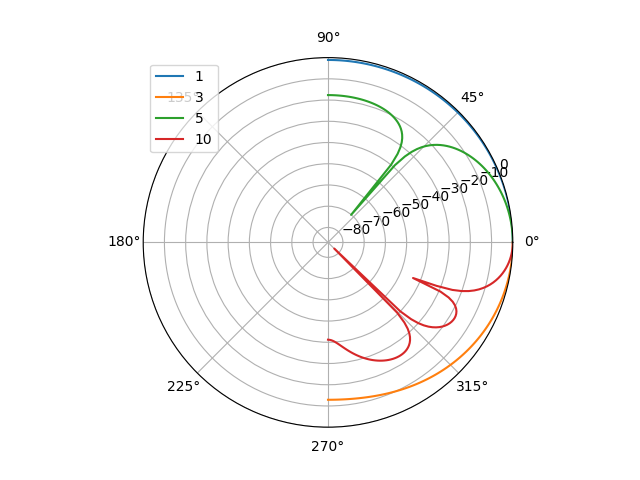
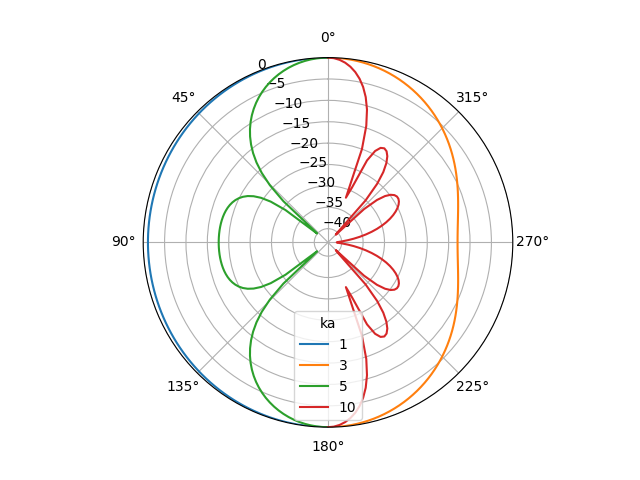
[skip travis] clean up docs even more

diff --git a/examples/pistoon_inf_baffle.py b/examples/pistoon_inf_baffle.py
@@ -9,7 +9,8 @@ Piston in an infinite baffle example
 #%% The piston in an infinite baffle is a classic model used to describe
 # the beamshapes of mouth-emitting bat species [1,2] (among other animals eg. [3]). 
 # It's easily to compute, but however can only describe the beamshape upto :math:`\pm90^{\circ}`
-# off-axis. Let's see an example of what the piston model outputs:
+# off-axis. One major issue with piston in an infinite baffle is that it is front-back symmetric,
+# which is unrealistic for most animal vocalisations. Let's see an example of what the piston model outputs:
 
 
 from beamshapes import piston_in_infinite_baffle_directivity
@@ -22,7 +23,7 @@ import numpy as np
 
 dB = lambda X: 20*np.log10(abs(X))
 
-angles = np.linspace(0,np.pi/2,100)
+angles = np.linspace(0,np.pi,100)
 k = 10.0
 ka_values = np.array([1,3,5,10])
 a_values = ka_values/k
@@ -31,14 +32,14 @@ parameters = {'k':k}
 
 plt.figure()
 a0 = plt.subplot(111, projection='polar')
-
+a0.set_theta_zero_location('N')
 for ka_v, a_v in zip(ka_values, a_values):
     parameters['a'] = a_v
     _, dirn = piston_in_infinite_baffle_directivity(angles, parameters)
     plt.plot(angles, np.array(dirn), label=str(ka_v))
     angles *= -1 # switch between L & R of 
 plt.legend(title='ka')
-plt.savefig('PIB.png')
+#plt.savefig('../docs/source/_static/PIB.png')
 
 
 #%%

diff --git a/docs/source/general_intro.rst b/docs/source/general_intro.rst
@@ -1,5 +1,5 @@
 Concepts behind :code:`beamshapes`
-==================================
+=============================
 Sound sources don't radiate sound uniformly most of the time. Even us humans for instance, we emit more energy while talking to the front than to the back. The exact (non-uniform) pattern in which sound is radiated defines the 'beamshape' of a source. The beamshape is typically a combination of the frequency of emitted sound and the geometry of the vibrating surface and its associated (non-vibrating) surfaces. 
 
 Let's go through the main concepts required to use the `beamshapes` package.
@@ -26,8 +26,8 @@ Piston in an infinite baffle
 
 `Piston in an infinite baffle schematic`
 
-Here a rigid circular disk (the 'piston') vibrates back and forth between a hole in a huge baffle that matches the disk's size.
-The parameters needed to define this model are the wavenumber and piston radius. 
+Here a rigid circular disk (the 'piston') vibrates back and forth across a hole (of matching size) set in a huge baffle .
+The parameters needed to define this model are the wavenumber (`k` - see below for a list of all common abbreviations) and piston radius (`a`).  
 
 Reference : Chp 13, Beranek, L. L., & Mellow, T. (2019). Acoustics: sound fields and transducers. Academic Press.
 
@@ -39,7 +39,7 @@ Point on a sphere
 `Point on a sphere schematic`
 
 An infinitesimally small portion of a sphere's surface (the 'point') is considered to vibrate. The rest of the sphere does not vibrate.
-The parameters needed to define this model are the wavenumber and sphere radius. 
+The parameters needed to define this model are the wavenumber (`k`) and sphere radius (`R`). 
 
 Reference: Chp 12, Beranek, L. L., & Mellow, T. (2019). Acoustics: sound fields and transducers.
 Academic Press.
@@ -56,7 +56,7 @@ The 'sliced' part of a sphere is the 'cap' in this case. The cap moves with an a
 Portions of the cap closer to the periphery vibrate less than portions close to the center, this is summarised by the 
 relation :math:`u(R,\theta) = u_{0}cos \theta`, where :math:`\theta` is the distended angle from the cap's centre. 
 
-The parameters needed to define this model are wavenumber, sphere radius, and the aperture angle of the cap. 
+The parameters needed to define this model are wavenumber (`k`), sphere radius (`R`), and the aperture angle of the cap (:math:`\alpha`). 
 
 Reference: Chp 12, Beranek, L. L., & Mellow, T. (2019). Acoustics: sound fields and transducers.
 Academic Press.
@@ -70,14 +70,14 @@ Piston in a sphere
 `Piston in a sphere schematic`
 
 A sphere is sliced, and the 'cap' is discarded. The 'open' portion of the sliced sphere is now replaced with a piston. 
-This piston in the sphere vibrates to produce sound. The parameters needed to define this model are wavenumber, sphere radius, 
-aperture angle of the piston, and piston radius. 
+This piston in the sphere vibrates to produce sound. The parameters needed to define this model are wavenumber (`k`), sphere radius (`R`), 
+aperture angle of the piston (:math:`\alpha`), and piston radius (`a`). 
 
 Reference: Chp 12, Beranek, L. L., & Mellow, T. (2019). Acoustics: sound fields and transducers.
 Academic Press.
 
-Input Parameters
-----------------
+Common parameters and abbreviations
+-----------------------------------
 The inputs will tend to be model-specific, but the common input parameters
 to keep in mind are:
 
